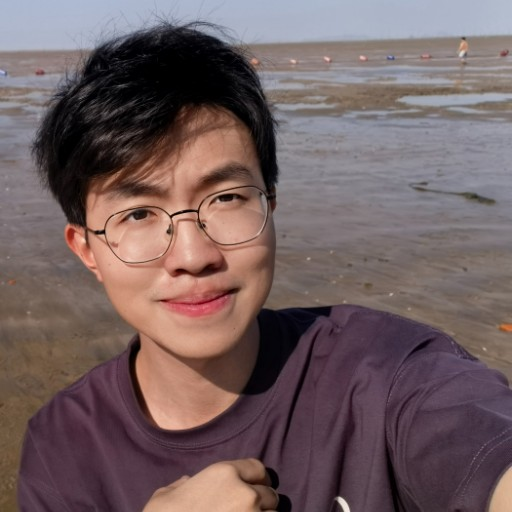
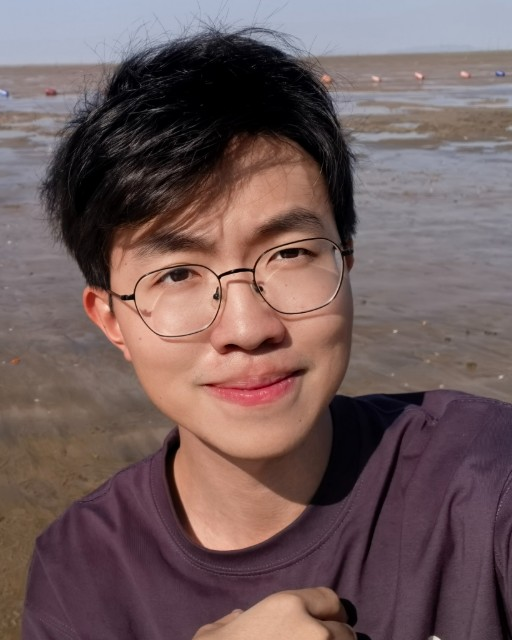
[fix]: 调整椭圆头像裁切以使头部居中

diff --git a/_layouts/homepage.html b/_layouts/homepage.html
@@ -50,7 +50,7 @@
     <link rel="stylesheet" href="./assets/css/style-no-dark-mode.css">
     <link rel="stylesheet" href="./assets/css/publications-no-dark-mode.css">
     {% endif %}
-    <link rel="stylesheet" href="./assets/css/custom.css?v=3">
+    <link rel="stylesheet" href="./assets/css/custom.css?v=4">
 
   </head>
   <body>

diff --git a/assets/css/custom.css b/assets/css/custom.css
@@ -30,6 +30,12 @@ a:hover { color: var(--accent-strong); }
 /* Text selection */
 ::selection { background: var(--accent-ring); }
 
+.image.avatar img {
+  aspect-ratio: 1;
+  object-fit: contain;
+  clip-path: ellipse(40% 50%) content-box;
+}
+
 .profile-name {
   display: grid;
   width: fit-content;
